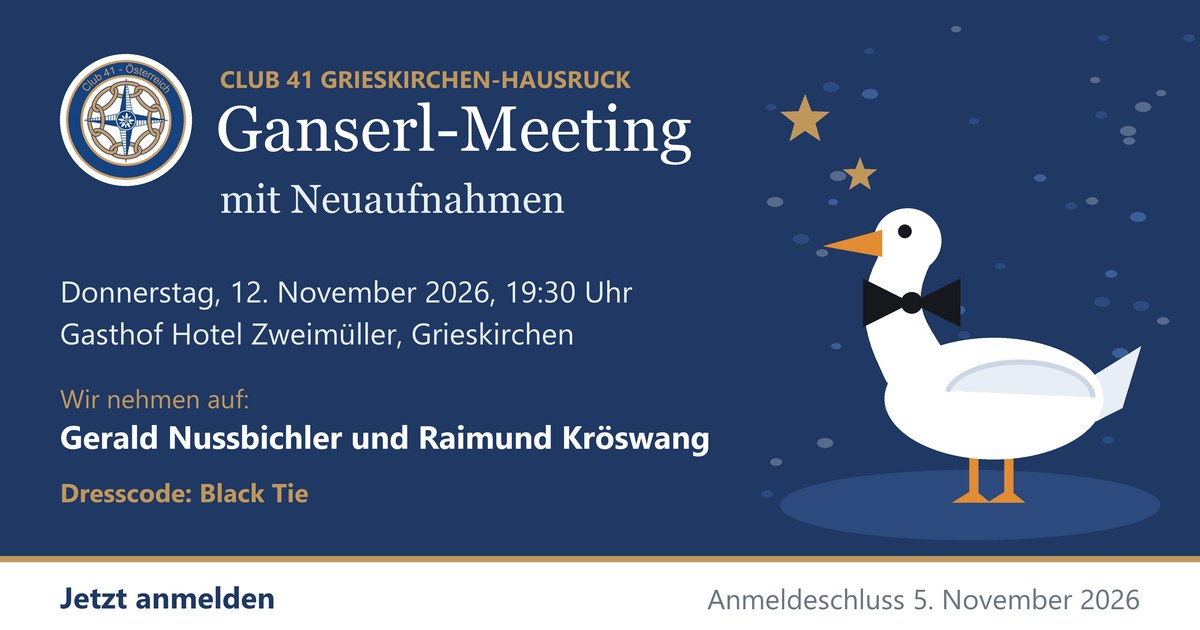
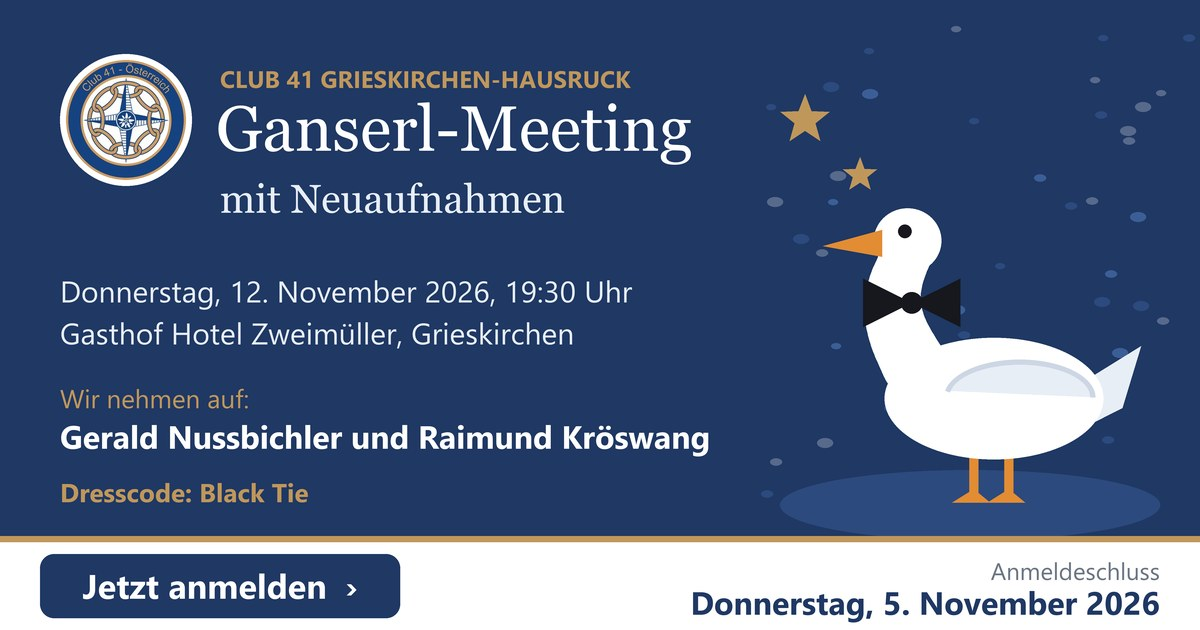
Vorschaubild mit Knopf „Jetzt anmelden“, Klick aufs Bild springt zur Auswahl

Changed region(s): [[0.0, 0.8444, 1.0, 0.9952]]

diff --git a/index.html b/index.html
@@ -87,7 +87,7 @@
   <p class="anrede" id="anrede" hidden></p>
   <p class="fuer" id="fuer" hidden>Anmeldung für <b id="mitglied"></b></p>
   <div id="einleitung">
-  <img class="titelbild" src="bilder/vorschau.jpg" alt="Ganserl-Meeting mit Neuaufnahmen, 12. November 2026">
+  <a href="#schritt-anmelden" id="bild-link"><img class="titelbild" src="bilder/vorschau.jpg" alt="Ganserl-Meeting mit Neuaufnahmen, 12. November 2026. Jetzt anmelden"></a>
   <p>Am Donnerstag, 12. November 2026, um 19:30 Uhr treffen wir uns im Gasthof Hotel Zweimüller in Grieskirchen zum Ganserl-Meeting. An diesem Abend nehmen wir Gerald Nussbichler und Raimund Kröswang in den Club auf.</p>
 
   <div class="regel">
@@ -389,6 +389,11 @@
     location.href = `mailto:${MAIL}?subject=${encodeURIComponent("Anmeldung Ganserl-Meeting")}&body=${encodeURIComponent(text)}`;
   }
 
+  // Das Bild trägt den Knopf „Jetzt anmelden“; ein Klick darauf springt zur Auswahl.
+  document.getElementById("bild-link").onclick = e => {
+    e.preventDefault();
+    document.getElementById("schritt-anmelden").scrollIntoView({ behavior: "smooth" });
+  };
   document.getElementById("los").onclick = pruefen;
   document.getElementById("abschicken").onclick = abschicken;
   document.getElementById("zurueck").onclick = () => zeige("schritt-anmelden");
